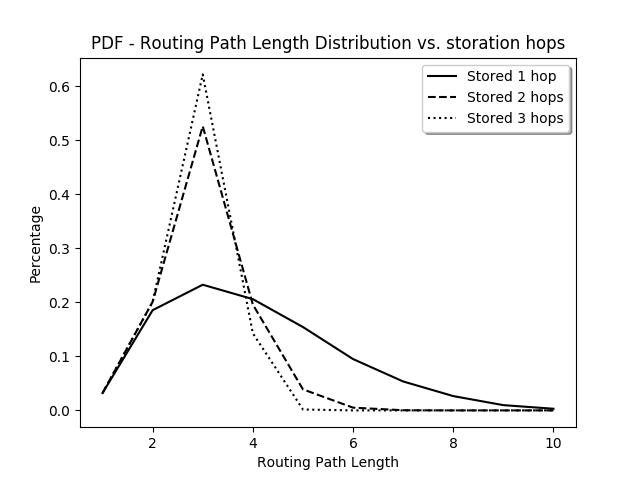
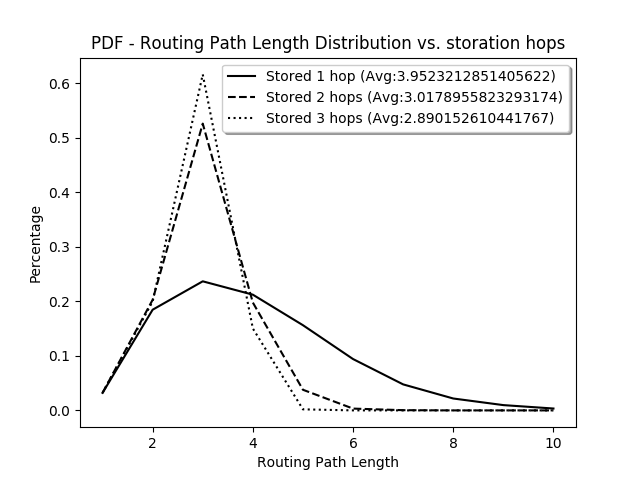
README updated.

diff --git a/simulations.py b/simulations.py
@@ -133,9 +133,9 @@ def s2_sim_3():
         except KeyError:
             y3.append(0)
     fig, ax = plt.subplots()
-    ax.plot(x, y1, 'k', label='Stored 1 hop')
-    ax.plot(x, y2, 'k--', label='Stored 2 hops')
-    ax.plot(x, y3, 'k:', label='Stored 3 hops')
+    ax.plot(x, y1, 'k', label='Stored 1 hop (Avg:'+str(result1['avg'])+')')
+    ax.plot(x, y2, 'k--', label='Stored 2 hops (Avg:'+str(result2['avg'])+')')
+    ax.plot(x, y3, 'k:', label='Stored 3 hops (Avg:'+str(result3['avg'])+')')
     ax.legend(loc='upper right', shadow=True)
     plt.title('PDF - Routing Path Length Distribution vs. storation hops')
     plt.ylabel('Percentage')
@@ -242,8 +242,10 @@ def chord_sim_2():
     plt.xlabel('Node Scale')
     plt.show()
 
+def chord_sim_3():
+    pass
 
-chord_sim_1()
+s2_sim_3()
 
 # BUG NOTES
 # 1. when there are two unconnected free ports, the simulation may fail

diff --git a/chord.py b/chord.py
@@ -49,13 +49,14 @@ class ChordNode(object):
             ChordNodeInfo: 节点的IP和端口信息
             FNode: 选择一个认识的节点
         """
-        super(ChordNode, self).__init__()
+        super(ChordNode, self).__init__(M=160)
         self.NInfo = ChordNodeInfo
         self.NID = my_hash(ChordNodeInfo)
         self.predecessor = None
         self.preSource = {}  # File will be saved in this map
         self.FingerTable = {}
         self.last_request_path = 0
+        self.M = M
 
         # Init Self and Neighbour
         if FNode is None:

diff --git a/README.md b/README.md
@@ -1,56 +1,67 @@
 # Introduction
-This repository is created for simple simulations of well-known networking algorithms.
+This repository is created for simple simulations of well-known networking algorithms. The simulations are all of recursive style.
 
 I will post some of my simulation results here. My simulation focus is on routing and caching efficiency (Routing path length and routing tables cost). The simulation scale is small restricted by my laptop performance, there would be some error statistically.
 
-## Chord Protocol<sup>[[1]](https://dl.acm.org/citation.cfm?id=383071)</sup>
-Chord protocol is one of the most famous protocols in P2P networking.
 
 
+## Space Shuffle<sup>[[1]](http://ieeexplore.ieee.org/document/7416229/)</sup>
 
-Routing Path Length
+Space Shuffle provides a new solution for the architectures of data center networks.
 
-* Experiment 1 - fixed condition
-
-![](https://github.com/Yetocome/Networking-Algorithm/blob/master/Figure_5.png)
-* Experiment 2 - when node number scales
-
-![](https://github.com/Yetocome/Networking-Algorithm/blob/master/Figure_6.png)
-
-
-Finger Tables:
-
-
-
-## Space Shuffle<sup>[[2]](http://ieeexplore.ieee.org/document/7416229/)</sup>
-
-Space Shuffle provides a new solution for data center networks.
-
-Routing Path Length:
+### Routing Path Length:
 
 * Experiment 1 - fixed condition
 
-![](https://github.com/Yetocome/Networking-Algorithm/blob/master/Figure_1.png)
+![Figure 1](https://github.com/Yetocome/Networking-Algorithm/blob/master/Figure_1.png)
 * Experiment 2 - when node number scales
 
-![](https://github.com/Yetocome/Networking-Algorithm/blob/master/Figure_2.png)
+![Figure 2](https://github.com/Yetocome/Networking-Algorithm/blob/master/Figure_2.png)
 * Experiment 3 - when stored hops scales
 
-![](https://github.com/Yetocome/Networking-Algorithm/blob/master/Figure_3.png)
+![Figure 3](https://github.com/Yetocome/Networking-Algorithm/blob/master/Figure_3.png)
 * Experiment 4 - when available spaces scales
 
-![](https://github.com/Yetocome/Networking-Algorithm/blob/master/Figure_4.png)
+![Figure 4](https://github.com/Yetocome/Networking-Algorithm/blob/master/Figure_4.png)
 * Experiment 5 - when used spaces scales
 
 
-Routing Tables:
+
+## Chord Protocol<sup>[[2]](https://dl.acm.org/citation.cfm?id=383071)</sup>
+Chord protocol is one of the most famous P2P protocols.
+
+
+
+### Routing Path Length
+
+* Experiment 1 - fixed condition
+
+![Figure 5](https://github.com/Yetocome/Networking-Algorithm/blob/master/Figure_5.png)
+* Experiment 2 - when node number scales
+
+![Figure 6](https://github.com/Yetocome/Networking-Algorithm/blob/master/Figure_6.png)
+
+We can see that the curve is not so smooth. That's because the node ID is determined randomly in my simulations, which may lead a quite imbalanced assignment results. Obviously, a more balanced assignment will decrease the average routing path effectively.
+
+### Finger Tables:
+
+The size of finger table is determined by the size of the virtual space. The transformation is:
+
+size of finger table = log2(size of virtual space)
+
+We can see that there is some redundancy in a finger table. Each entry of this table is pointed to a successor. When there is no node between its KID and (its KID + 2^i), the entry saves a redundant successor. The redundant exists very likely because the M (scales of the virtual space) is much larger than N (the scales of the nodes).
+
 
 
 ## A Quick Comparison between Chord and S2
 
+Chord is a protocol at application layer while S2 is at network year. But this will not prevent us to compare them at the simulation level.
 
+As for routing efficiency, they both provide a decent performance. Their average routing length paths scale logarithmically with nodes scaling. From the simulation results (Fig. 1 and Fig. 5), we can find that S2 performs better than chord in the 250 node-topology case. Intuitively, S2 node can find the least-cost path quickly from different virtual spaces it's in.
+
+The size of the finger/routing tables of them are fixed. Chord maintains a linear tables which is a set of pointers and its size is log2(size of name space). S2 maintains a set of vectors, which are the coordinates of neighbor nodes in different spaces. The size of this table scales exponentially when the stored hops scales. The table structure and search efficiency of Chord are much better. Chord was designed so because the node leaves and node joins occur frequently in P2P scenario. While in data center, the use case of S2, the topology is much more stable, so its complexity is acceptable.
 
 ### _Reference_
-[1] Stoica, I., Morris, R., Karger, D., Kaashoek, M. F., & Balakrishnan, H. (2001). Chord. In Proceedings of the 2001 conference on Applications, technologies, architectures, and protocols for computer communications - SIGCOMM ’01. ACM Press. https://doi.org/10.1145/383059.383071
+[1] Yu, Y., & Qian, C. (2016). Space Shuffle: A Scalable, Flexible, and High-Performance Data Center Network. IEEE Transactions on Parallel and Distributed Systems, 27(11), 3351–3365. https://doi.org/10.1109/tpds.2016.2533618
 
-[2] Yu, Y., & Qian, C. (2016). Space Shuffle: A Scalable, Flexible, and High-Performance Data Center Network. IEEE Transactions on Parallel and Distributed Systems, 27(11), 3351–3365. https://doi.org/10.1109/tpds.2016.2533618
+[2] Stoica, I., Morris, R., Karger, D., Kaashoek, M. F., & Balakrishnan, H. (2001). Chord. In Proceedings of the 2001 conference on Applications, technologies, architectures, and protocols for computer communications - SIGCOMM ’01. ACM Press. https://doi.org/10.1145/383059.383071
